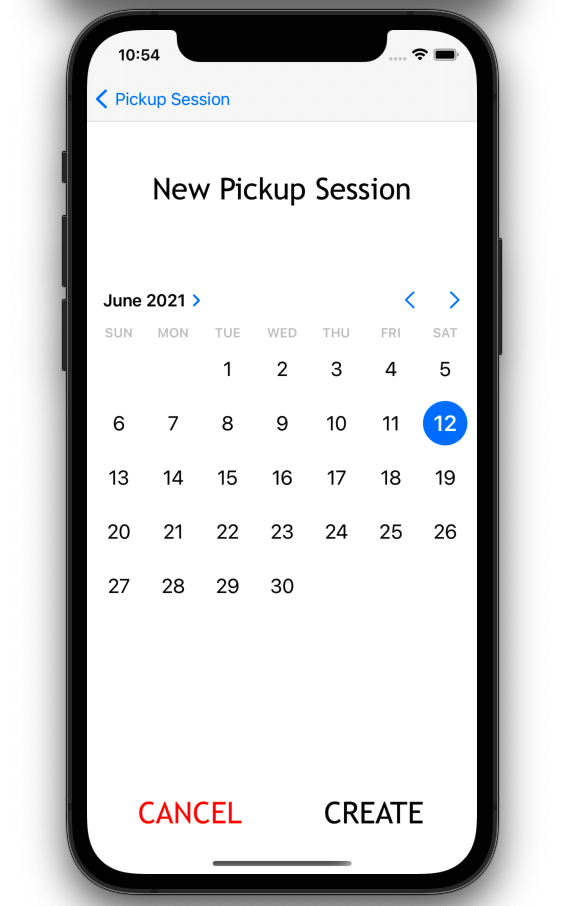
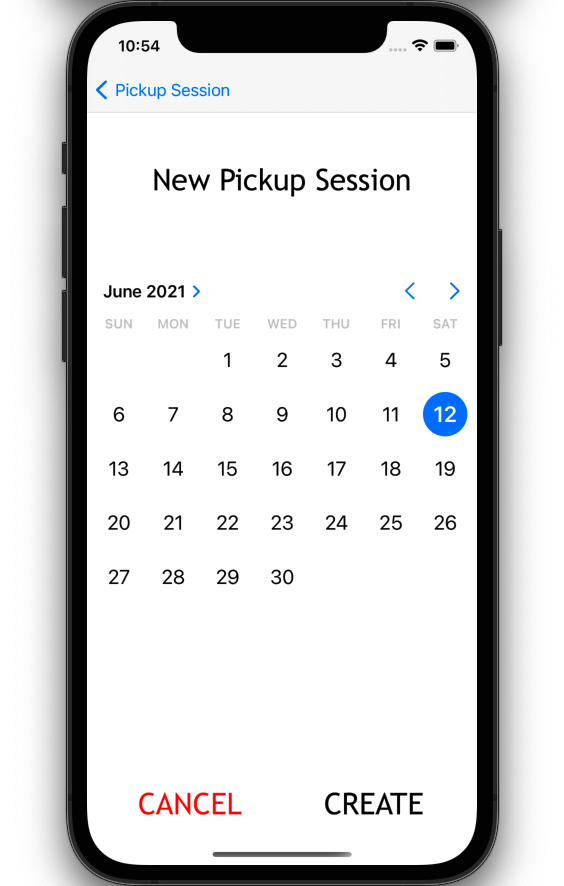
cropped images and updated README

diff --git a/README.md b/README.md
@@ -3,4 +3,9 @@
  - I built it so we would have a effecient way to input production and inventory data each week.
 
 # App ScreenShots
-![Home Screen](https://github.com/codercodyc/Squab-Pickup-Tracker-iOS/blob/main/Images/Home_Screen.png?raw=true)![Load Session Screen](https://github.com/codercodyc/Squab-Pickup-Tracker-iOS/blob/main/Images/Session_Screen.png?raw=true)![New Session Screen](https://github.com/codercodyc/Squab-Pickup-Tracker-iOS/blob/main/Images/Session_Screen.png?raw=true)![Date Picker Screen](https://github.com/codercodyc/Squab-Pickup-Tracker-iOS/blob/main/Images/Session_Screen.png?raw=true)![New Session Screen](https://github.com/codercodyc/Squab-Pickup-Tracker-iOS/blob/main/Images/Date_Picker.png?raw=true)![Load Session Screen](https://github.com/codercodyc/Squab-Pickup-Tracker-iOS/blob/main/Images/Session_Screen.png?raw=true)![Pickup Grid Screen](https://github.com/codercodyc/Squab-Pickup-Tracker-iOS/blob/main/Images/Pickup_Grid.png?raw=true)![Load Session Screen](https://github.com/codercodyc/Squab-Pickup-Tracker-iOS/blob/main/Images/Session_Screen.png?raw=true)![Pen Selector Screen](https://github.com/codercodyc/Squab-Pickup-Tracker-iOS/blob/main/Images/Pen_Selector.png?raw=true)
+<img src="https://github.com/codercodyc/Squab-Pickup-Tracker-iOS/blob/main/Images/Home_Screen.png?raw=true" alt ="Home Screen" width="300">
+<img src="https://github.com/codercodyc/Squab-Pickup-Tracker-iOS/blob/main/Images/Session_Screen.png?raw=true" alt ="Load Session Screen" width="300">
+<img src="https://github.com/codercodyc/Squab-Pickup-Tracker-iOS/blob/main/Images/Date_Picker.png?raw=true" alt ="Date Picker Screen" width="300">
+<img src="https://github.com/codercodyc/Squab-Pickup-Tracker-iOS/blob/main/Images/Pickup_Grid.png?raw=true" alt ="Pickup Grid Screen" width="300">
+<img src="https://github.com/codercodyc/Squab-Pickup-Tracker-iOS/blob/main/Images/Pen_Selector.png?raw=true" alt ="Pen Selector Screen" width="300">
+<img src="https://github.com/codercodyc/Squab-Pickup-Tracker-iOS/blob/main/Images/Settings.png?raw=true" alt ="Settings Screen" width="300">
